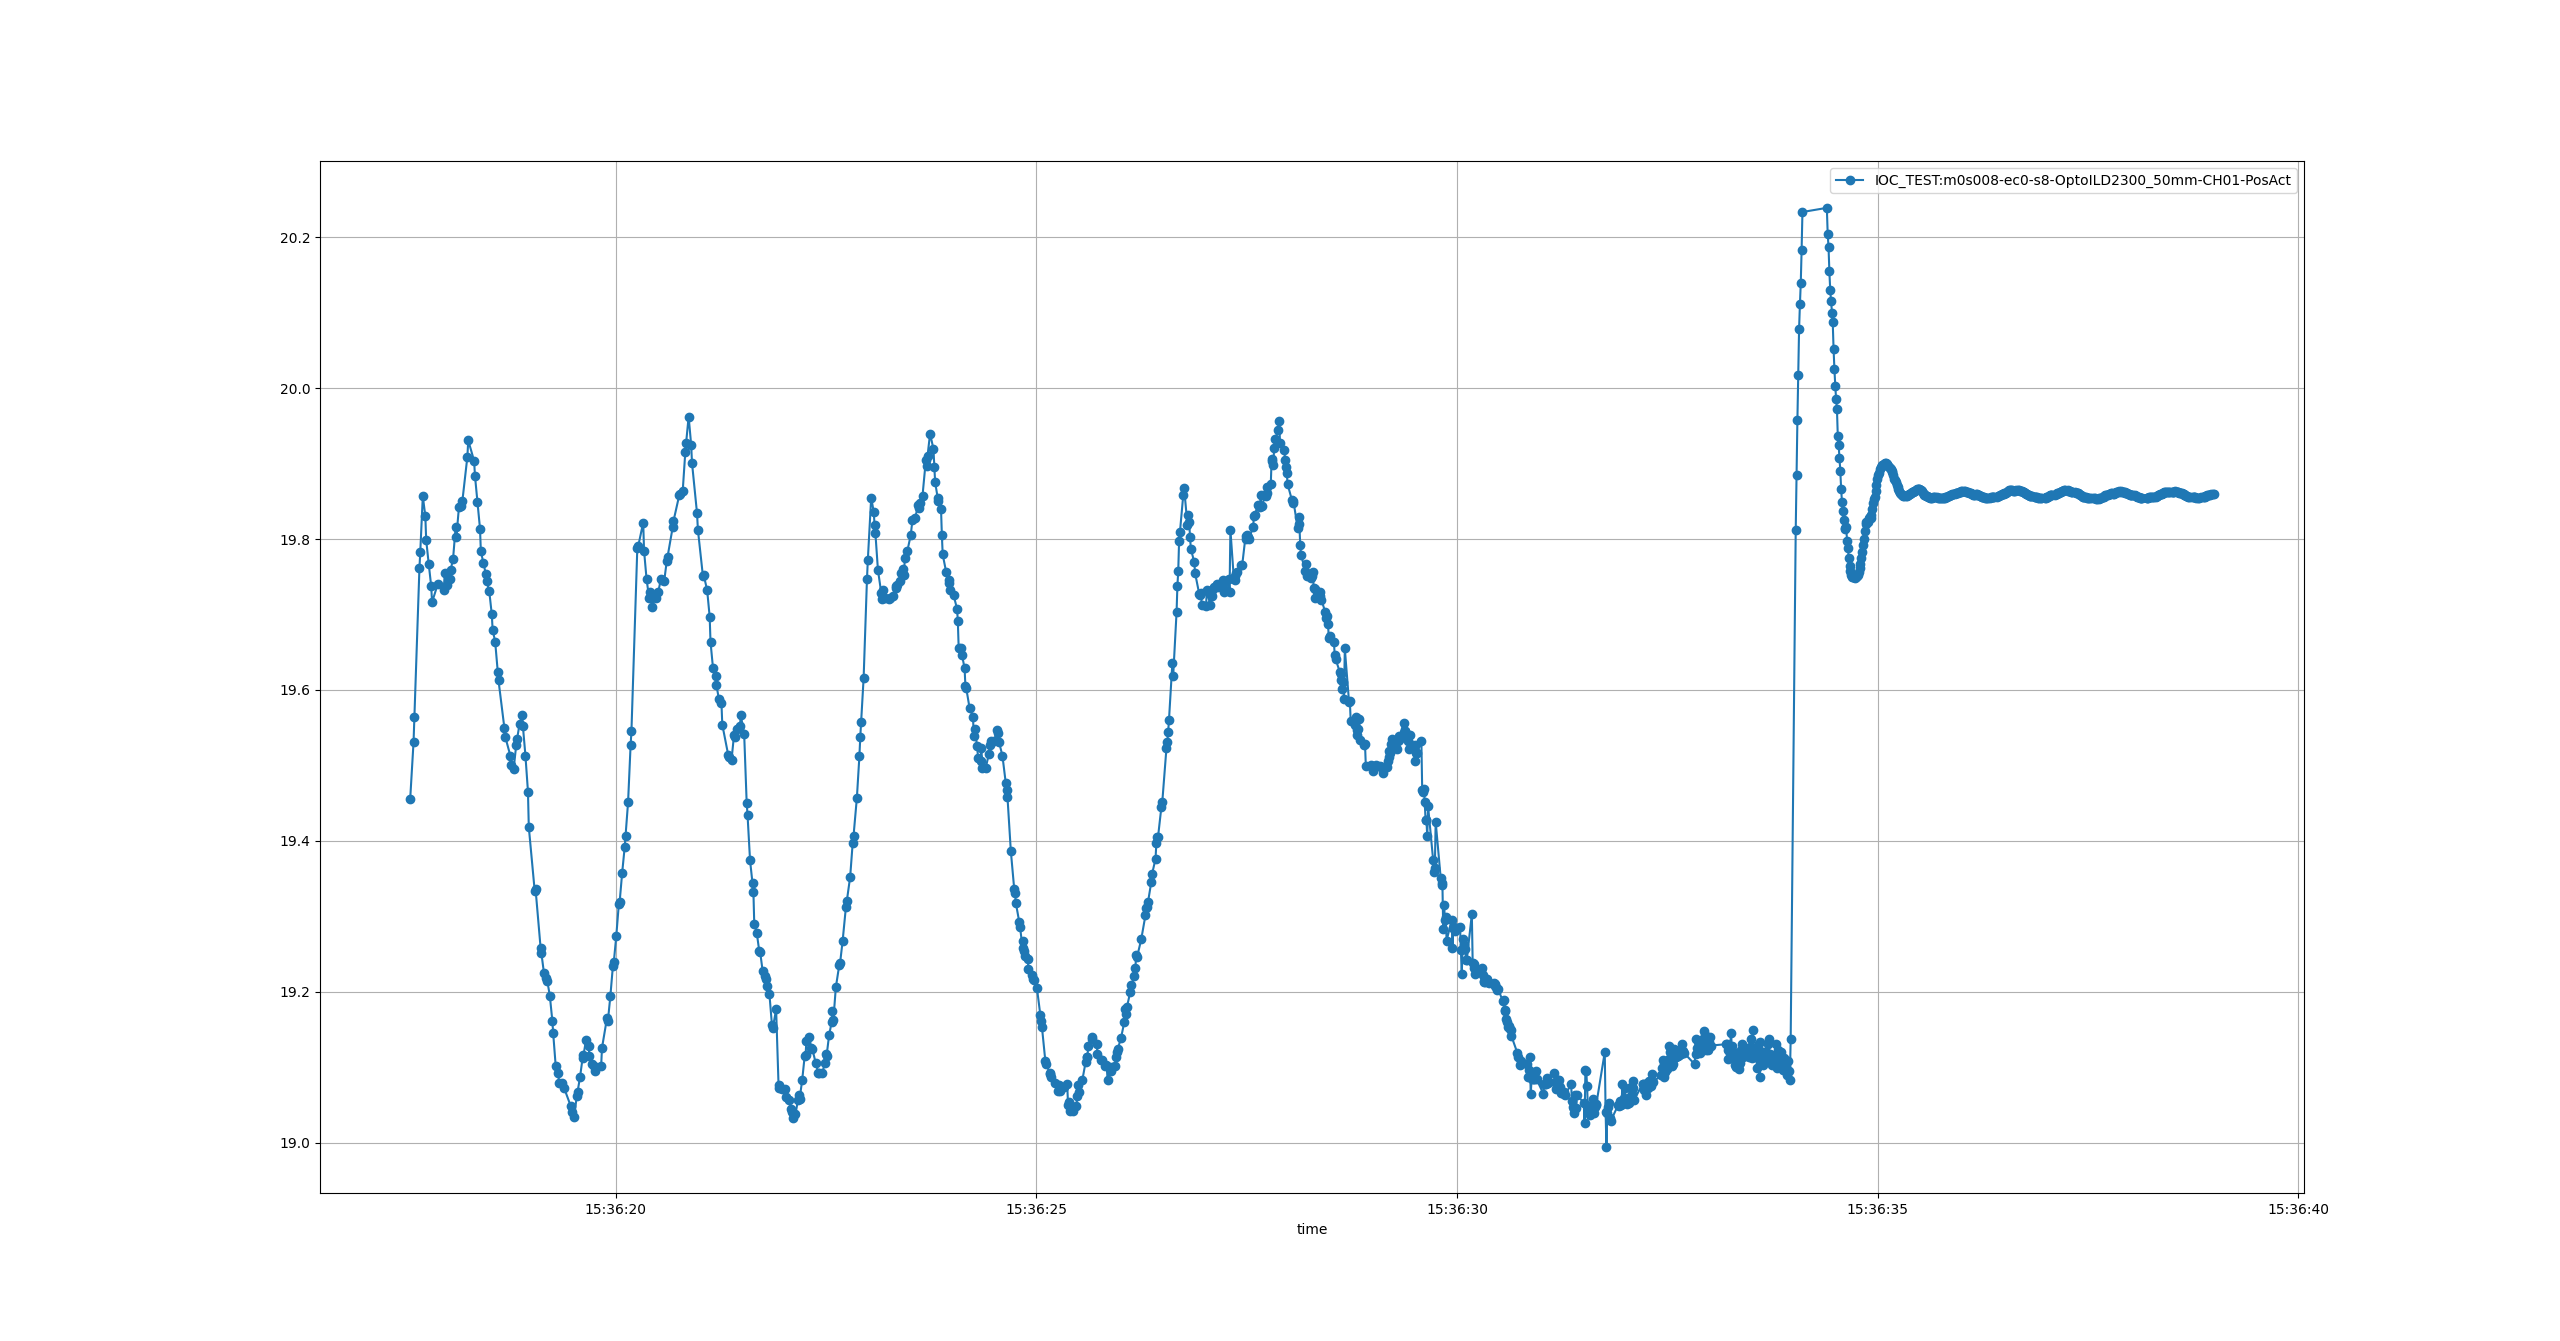
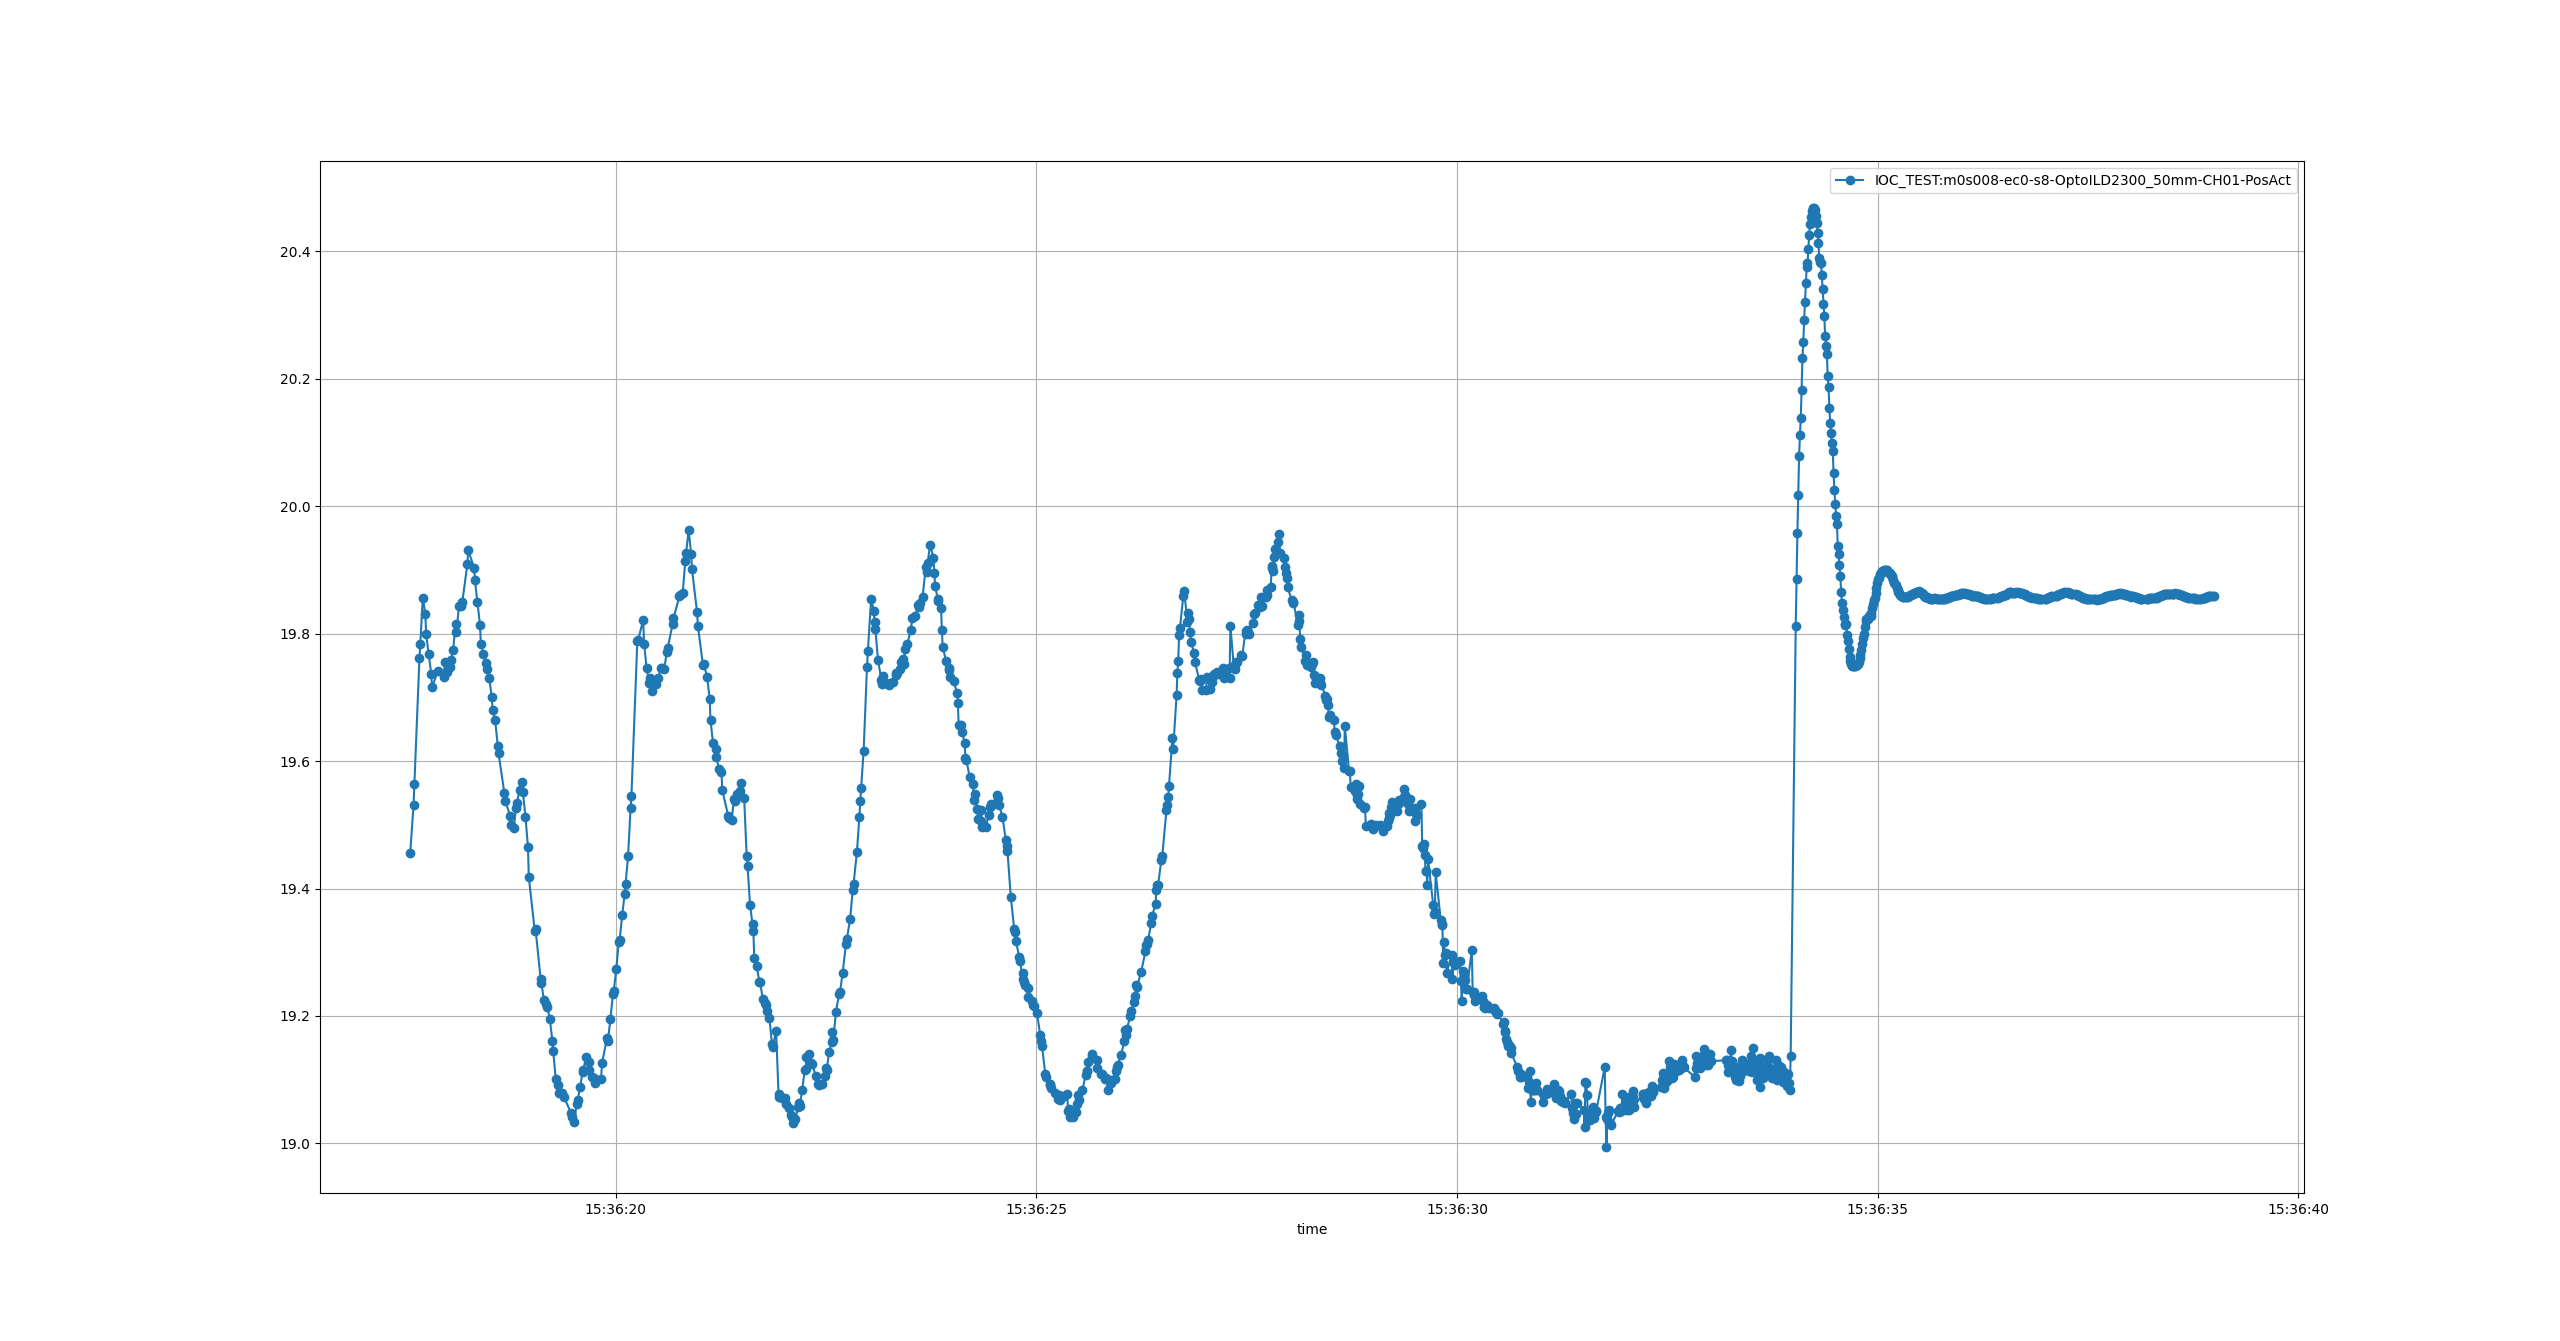
WIP

diff --git a/muts/data/220704/readme.md b/muts/data/220704/readme.md
@@ -63,7 +63,8 @@ IOC_TEST:m0s002-AI03[24604] 12.8569..14.6239, mean: 13.746221244513086, std: 0.5
 
 ## Opto
 cat data_07.log |  grep Opto | awk 'BEGIN{f=1;}{if(f){f=0;old=$4;} if($4<old+0.1 && $4>old-0.1){print $0;} old=$4;}' | awk '{if($4<20.25){print $0;}}' | python ~/sources/ecmccomgui/pyDataManip/plotCaMonitor.py 
-IOC_TEST:m0s008-ec0-s8-OptoILD2300_50mm-CH01-PosAct[1240] 18.9951..20.2388, mean: 19.54435370967742, std: 0.3327594920763094, +-0.62
+IOC_TEST:m0s008-ec0-s8-OptoILD2300_50mm-CH01-PosAct[1268] 18.9951..20.4683, mean: 19.562906703470027, std: 0.35161172550840847, +-0.74
+
 
 ## vertical AI04
 cat data_07.log | grep AI04 | awk 'BEGIN{f=1;}{if(f){f=0;old=$4;} if($4<old+0.015 && $4>old-0.015){print $0;} old=$4;}' | awk '{if($4<10.755){print $0;}}' | awk 'BEGIN{f=1;}{if(f){f=0;old=$4;} if($4<old+0.015 && $4>old-0.015){print $0;} old=$4;}' | python ~/sources/ecmccomgui/pyDataManip/plotCaMonitor.py 
